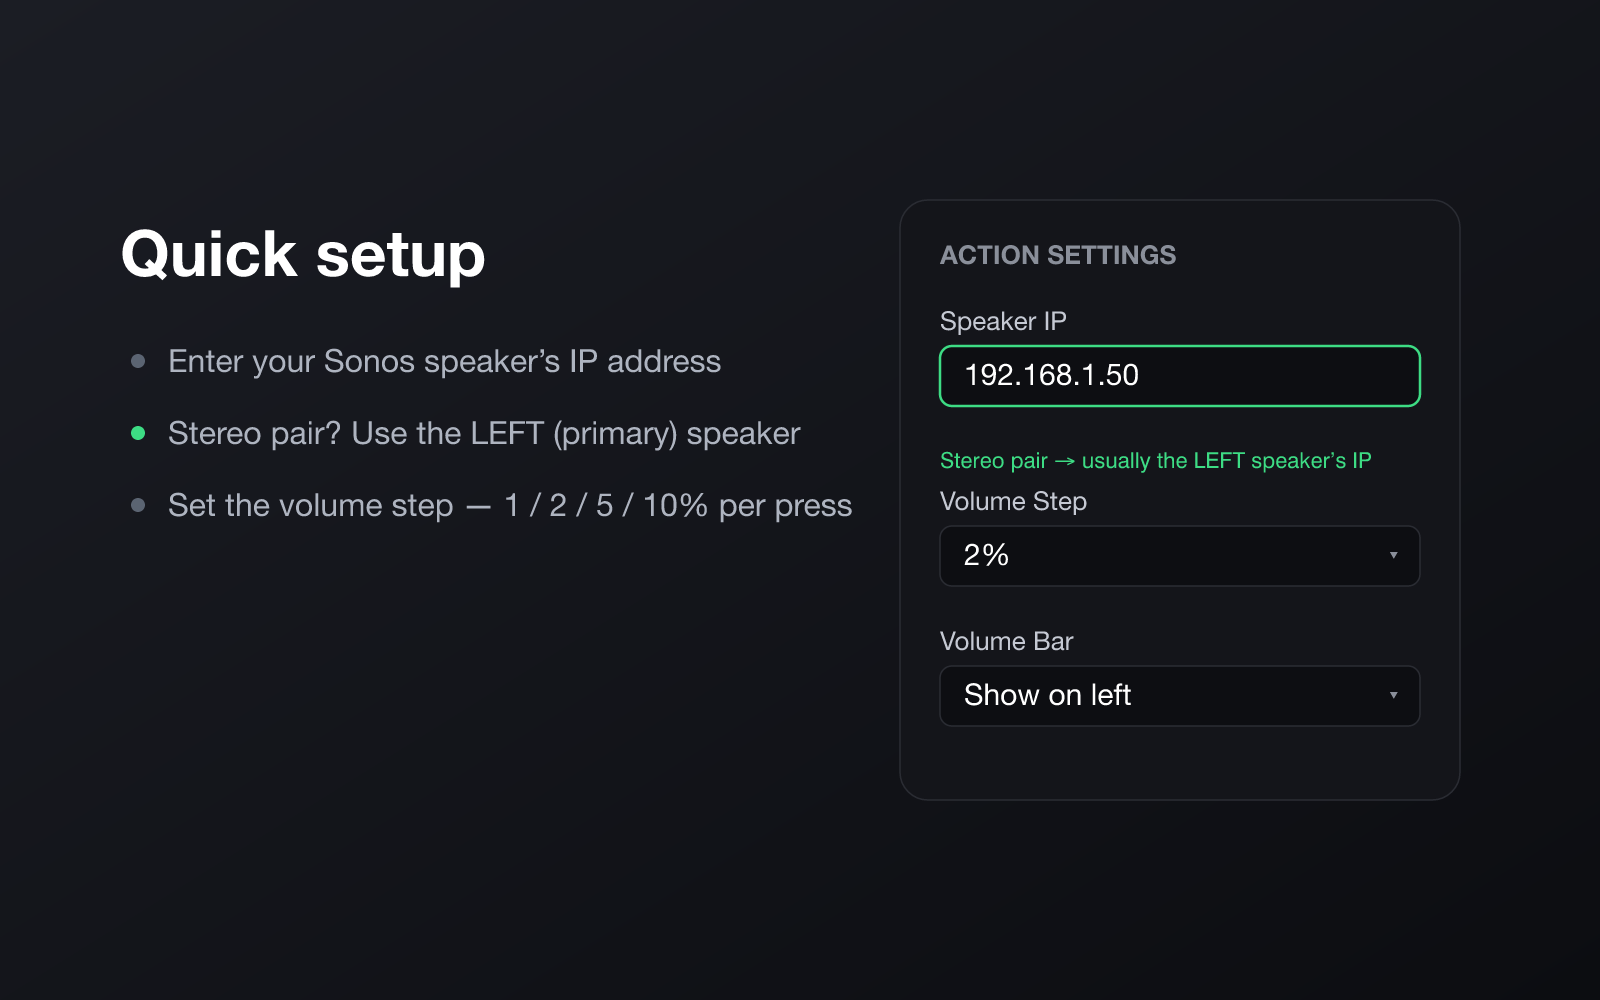
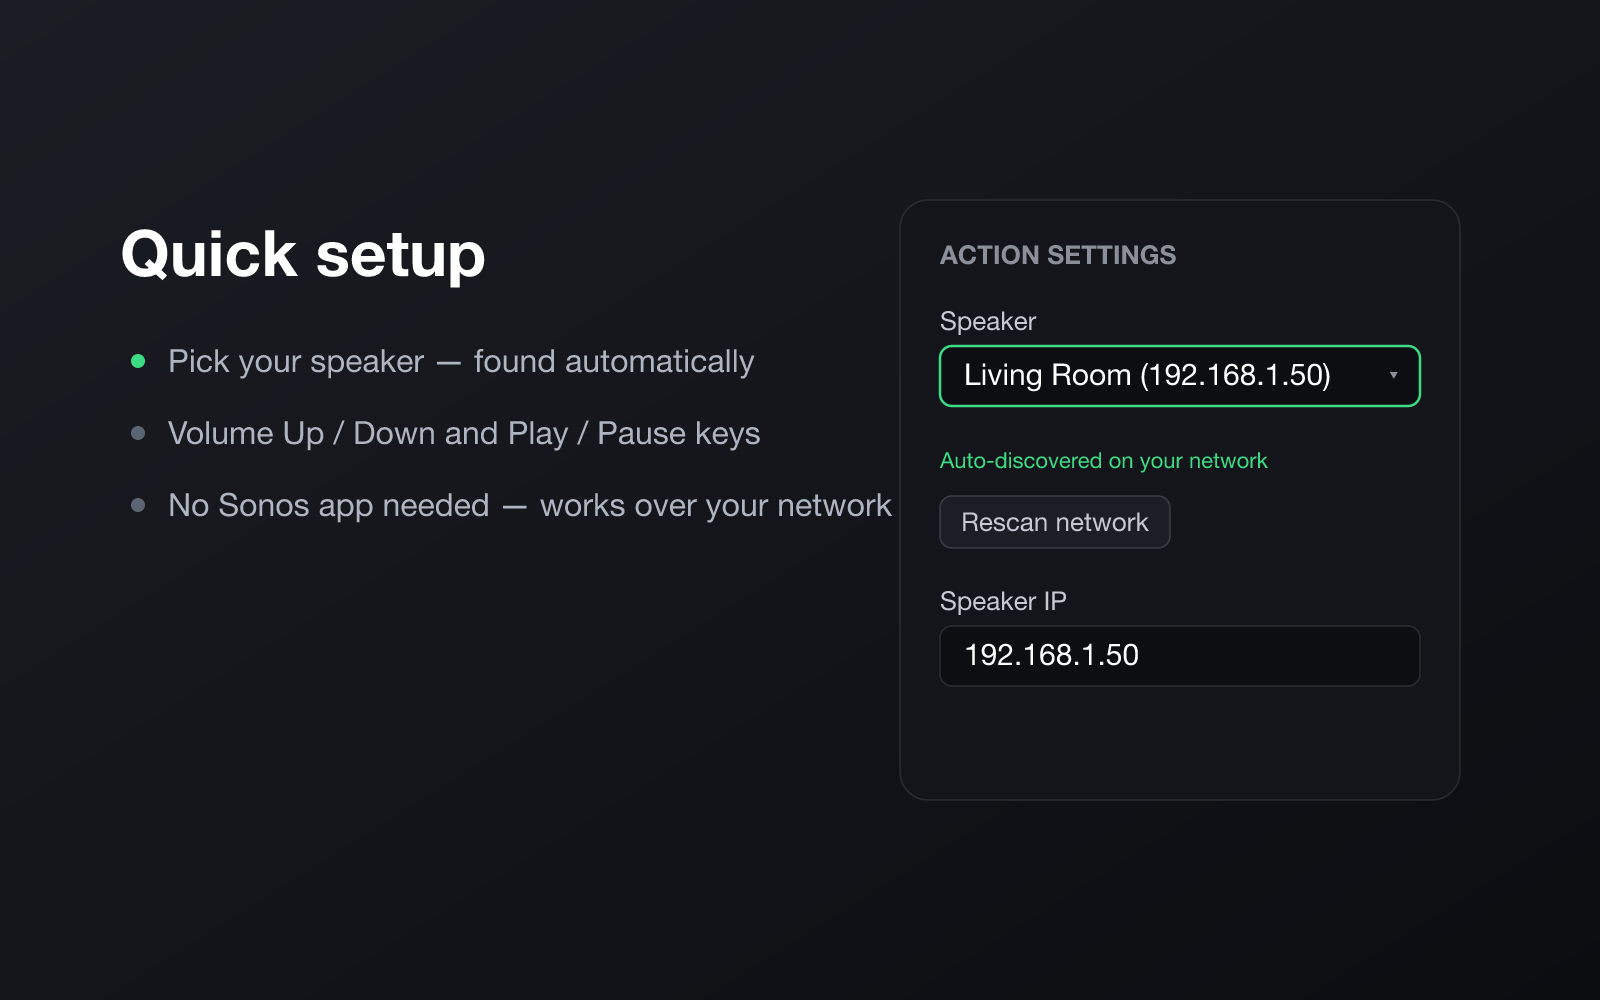
marketing: add Play/Pause preview, refresh setup preview for auto-discovery
- New preview-playpause.png showing the key in both states (playing → pause
  glyph, idle → play glyph).
- Reworked preview-setup.png around the Speaker auto-discovery dropdown,
  "Rescan network" button, and the manual IP fallback.
- Embed the play/pause preview in the README.

diff --git a/README.md b/README.md
@@ -40,6 +40,8 @@ can't be reached.
 
 ### Live play/pause state
 
+![Play / Pause key — pause glyph while playing, play glyph when idle](marketing/preview-playpause.png)
+
 The Play / Pause key reads the speaker's transport state on the same poll loop as
 the volume keys, so the icon stays correct even when playback is started or
 paused elsewhere (the Sonos app, AirPlay, or another source). A press updates the